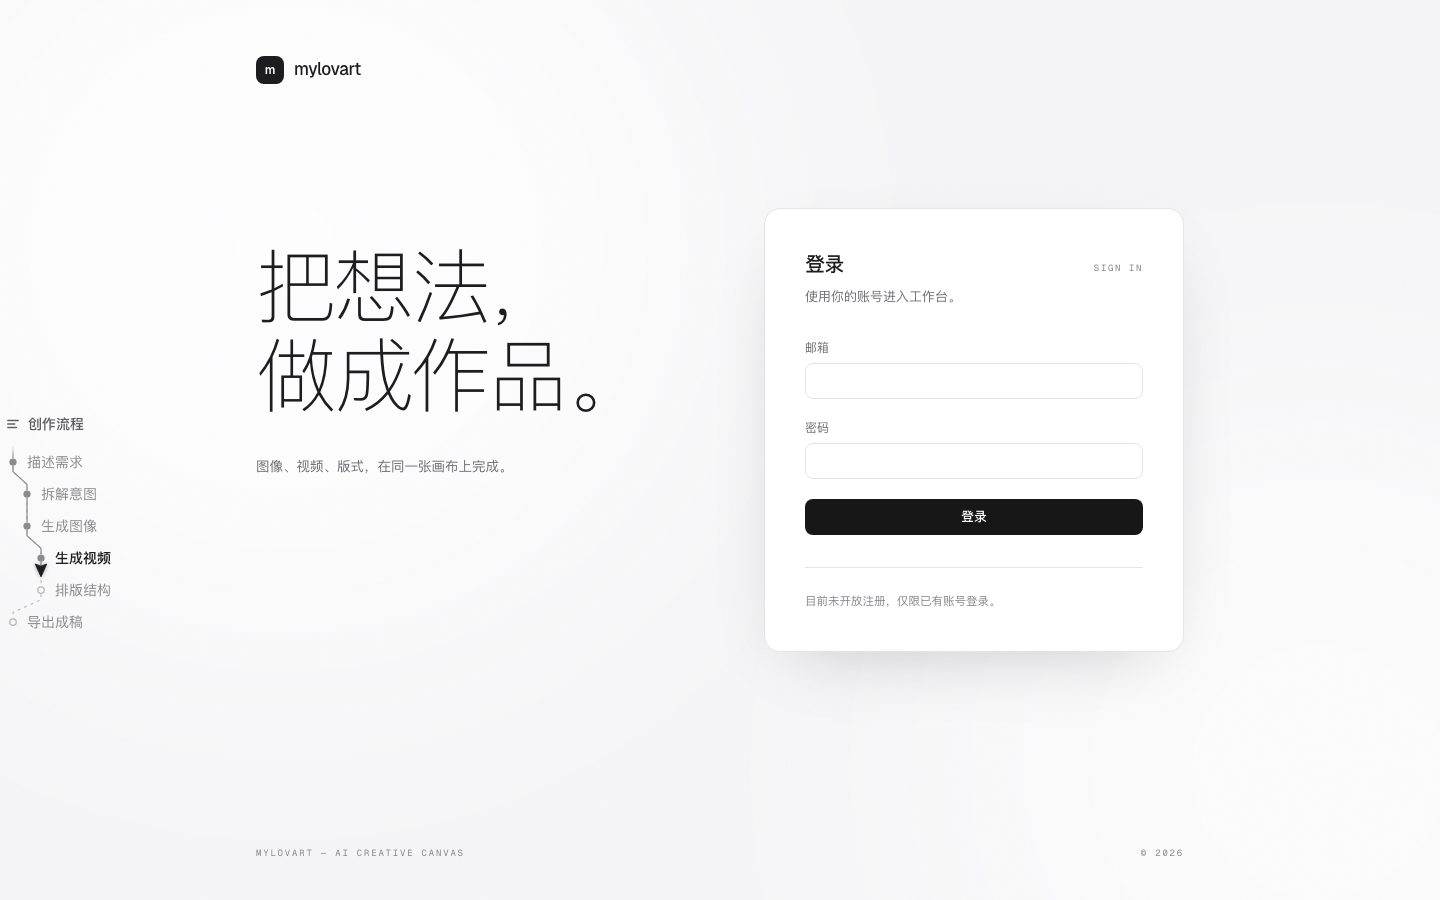
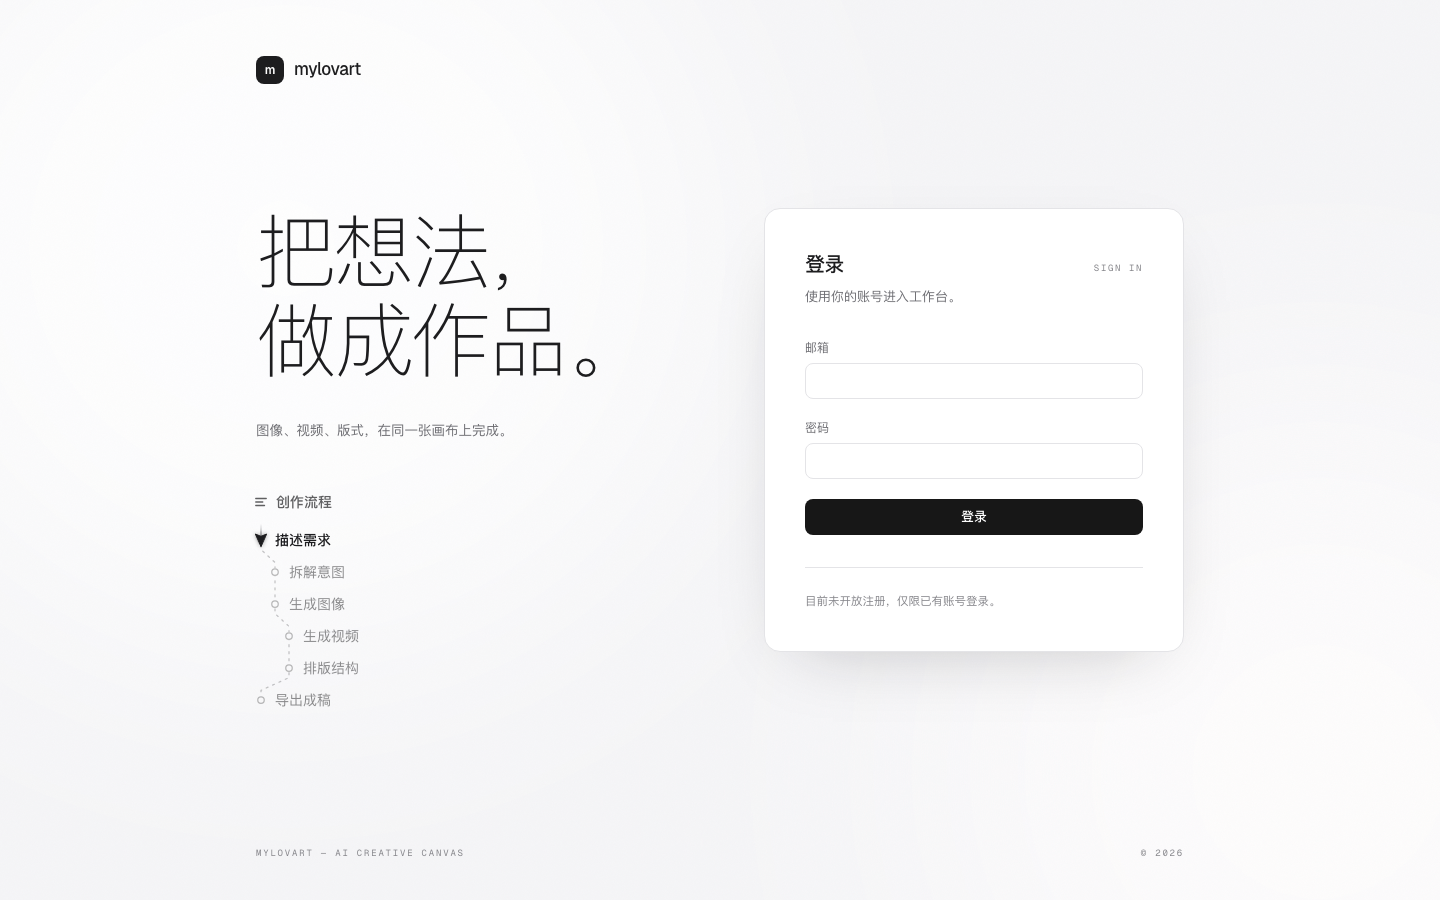
style: 流程轨道移到标题下方，与正文左对齐

Changed region(s): [[0.1875, 0.2178, 0.4062, 0.56], [0.0, 0.4667, 0.0938, 0.7156], [0.1562, 0.5911, 0.25, 0.7778]]

diff --git a/apps/web/src/app/page.tsx b/apps/web/src/app/page.tsx
@@ -15,9 +15,6 @@ export default function Home() {
   return (
     <div className="relative min-h-dvh overflow-hidden bg-canvas">
       <HazeCanvas />
-      <div className="absolute left-2 top-[46%] z-0 hidden xl:block">
-        <RailToc title="创作流程" items={RAIL_ITEMS} autoLoop />
-      </div>
 
       <div className="relative z-10 mx-auto grid min-h-dvh w-full max-w-[1040px] gap-12 px-7 pb-24 pt-10 lg:grid-cols-[1fr_420px] lg:items-stretch lg:gap-10 lg:px-14 lg:pb-24 lg:pt-14">
         <div className="flex flex-col lg:h-full">
@@ -28,7 +25,7 @@ export default function Home() {
             <span className="text-[17px] font-medium tracking-[-0.02em] text-ink">mylovart</span>
           </div>
 
-          <div className="flex flex-1 flex-col justify-center py-16 lg:py-0 lg:pb-[166px]">
+          <div className="flex flex-col py-16 lg:pt-[124px] lg:pb-0">
             <h1 className="max-w-[600px] text-[clamp(40px,5.6vw,84px)] font-light leading-[1.1] tracking-[-0.04em] text-ink">
               把想法，
               <br />
@@ -38,7 +35,10 @@ export default function Home() {
             <p className="mt-8 max-w-[330px] text-[13.5px] leading-[1.95] text-muted">
               图像、视频、版式，在同一张画布上完成。
             </p>
+          </div>
 
+          <div className="relative z-10 mt-12 hidden xl:block">
+            <RailToc title="创作流程" items={RAIL_ITEMS} autoLoop />
           </div>
         </div>
 
